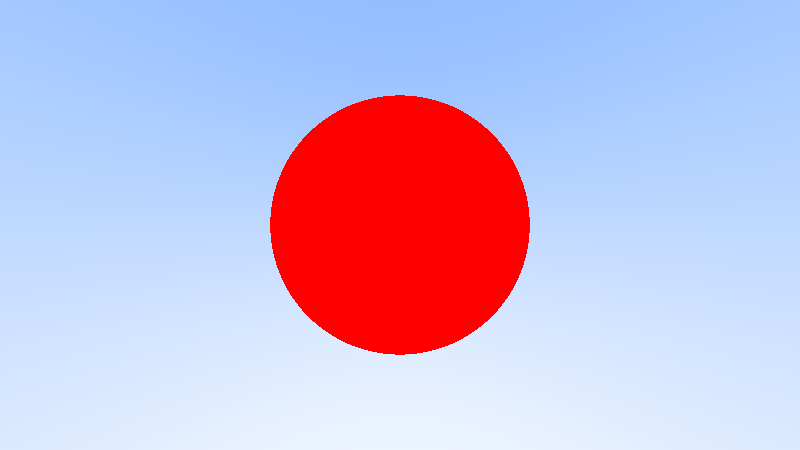
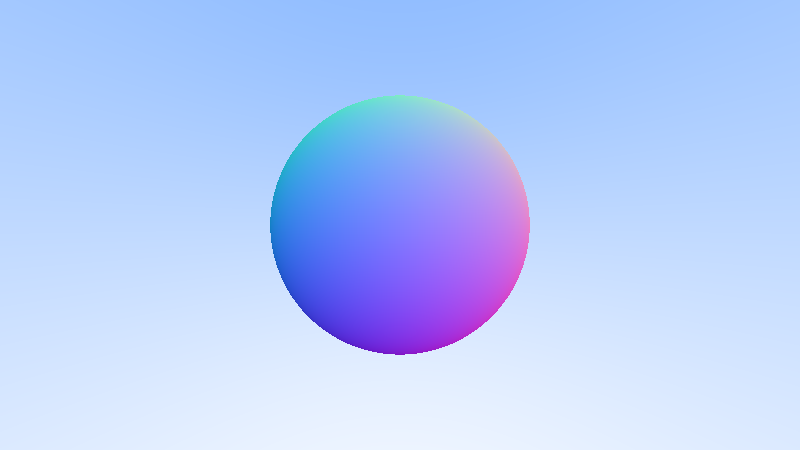
Return (and render) normals from intersections

Changed region(s): [[0.3125, 0.1867, 0.6875, 0.8089]]

diff --git a/src/scene/sphere.rs b/src/scene/sphere.rs
@@ -1,6 +1,5 @@
-use std::f32::INFINITY;
-
 use crate::types::{Point3, Ray};
+use super::Intersection;
 
 /// An intersectable sphere.
 #[derive(Debug, Clone, Copy, PartialEq)]
@@ -15,7 +14,7 @@ impl Sphere {
     /// # Arguments
     ///
     /// * `ray` - ray to trace along
-    pub fn intersected_by(&self, ray: &Ray) -> bool {
+    pub fn intersected_by(&self, ray: &Ray) -> Option<Intersection> {
         let offset = ray.origin() - self.center;
         // Solving ax² + 2bx + c = r², where the constants are derived
         // from expanding `(ray.at(x) - self.center)² = self.radius²`.
@@ -24,8 +23,16 @@ impl Sphere {
         let c = offset.dot(offset) - (self.radius * self.radius);
         // If the smallest non-imaginary solution is positive, we have
         // intersected with the outside of the shpere.
-        let distance = (-b - ((b * b) - (a * c)).sqrt()) / (2.0 * a);
-        distance > 0.0
+        let distance = (-b - ((b * b) - (a * c)).sqrt()) / a;
+        if distance > 0.0 {
+            // Intersection! Return a point and normal.
+            let point = ray.at(distance);
+            let normal = point - self.center;
+            Some(Intersection::new(point, normal))
+        } else {
+            // No intersection :(
+            None
+        }
     }
 }
 
@@ -60,8 +67,8 @@ mod test {
             },
         );
 
-        assert_eq!(sphere.intersected_by(&ray_z), false);
-        assert_eq!(sphere.intersected_by(&ray_x), false);
+        assert_eq!(sphere.intersected_by(&ray_z), None);
+        assert_eq!(sphere.intersected_by(&ray_x), None);
     }
 
     #[test]
@@ -84,7 +91,18 @@ mod test {
             },
         );
 
-        assert_eq!(sphere.intersected_by(&ray), true);
+        let expected = Intersection::new(
+            Point3 {
+                x: 1.0,
+                y: 0.0,
+                z: 2.0,
+            },
+            Vect3 {
+                x: 1.0,
+                ..Vect3::zero()
+            },
+        );
+        assert_eq!(sphere.intersected_by(&ray), Some(expected));
     }
 
     #[test]
@@ -104,6 +122,17 @@ mod test {
             },
         );
 
-        assert_eq!(sphere.intersected_by(&ray), true);
+        let expected = Intersection::new(
+            Point3 {
+                x: 0.0,
+                y: 0.0,
+                z: 1.0,
+            },
+            Vect3 {
+                z: -1.0,
+                ..Vect3::zero()
+            },
+        );
+        assert_eq!(sphere.intersected_by(&ray), Some(expected));
     }
 }

diff --git a/src/scene/mod.rs b/src/scene/mod.rs
@@ -5,7 +5,7 @@ mod sphere;
 pub use sphere::Sphere;
 
 // Imports.
-use crate::types::Ray;
+use crate::types::{Point3, Ray, Vect3};
 
 /// An intersectable surface.
 #[non_exhaustive]
@@ -14,13 +14,39 @@ pub enum Surface {
     Sphere(Sphere),
 }
 
+/// An intersection.
+#[derive(Debug, Clone, Copy, PartialEq)]
+pub struct Intersection {
+    point: Point3,
+    normal: Vect3,
+}
+
+impl Intersection {
+    /// Construct an intersection.
+    fn new(point: Point3, normal: Vect3) -> Intersection {
+        Intersection {
+            point,
+            normal: normal.normalize(),
+        }
+    }
+
+    /// Get the point of this intersection.
+    pub fn point(&self) -> Point3 {
+        self.point
+    }
+    /// Get the normal of this intersection.
+    pub fn normal(&self) -> Vect3 {
+        self.normal
+    }
+}
+
 /// Check whether a ray intersects a surface.
 ///
 /// # Arguments
 ///
 /// * `ray` - the ray to trace along
 /// * `surface` - the surface to intersect
-pub fn intersects(ray: &Ray, surface: &Surface) -> bool {
+pub fn intersects(ray: &Ray, surface: &Surface) -> Option<Intersection> {
     match surface {
         Surface::Sphere(s) => s.intersected_by(ray),
     }

diff --git a/src/lib.rs b/src/lib.rs
@@ -10,17 +10,21 @@ use types::{Point3, Ray, Vect3};
 
 /// Render the color for a specific pixel.
 fn render_ray(ray: &Ray, surface: &Surface) -> image::Pixel {
-    if intersects(ray, surface) {
-        return image::Pixel {
-            r: 1.0,
-            ..image::Pixel::default()
-        };
-    }
-    let t = 0.5 * (ray.direction().y + 1.0);
-    image::Pixel {
-        r: (1.0 - t) * 1.0 + t * 0.5,
-        g: (1.0 - t) * 1.0 + t * 0.7,
-        b: (1.0 - t) * 1.0 + t * 1.0,
+    if let Some(intersection) = intersects(ray, surface) {
+        // We have an intersection! Map the normal to colors.
+        image::Pixel {
+            r: 0.5 * (intersection.normal().x + 1.0),
+            g: 0.5 * (intersection.normal().y + 1.0),
+            b: 0.5 * (intersection.normal().z + 1.0),
+        }
+    } else {
+        // Fall-back: fancy blue-ish gradient
+        let t = 0.5 * (ray.direction().y + 1.0);
+        image::Pixel {
+            r: (1.0 - t) * 1.0 + t * 0.5,
+            g: (1.0 - t) * 1.0 + t * 0.7,
+            b: (1.0 - t) * 1.0 + t * 1.0,
+        }
     }
 }
 
